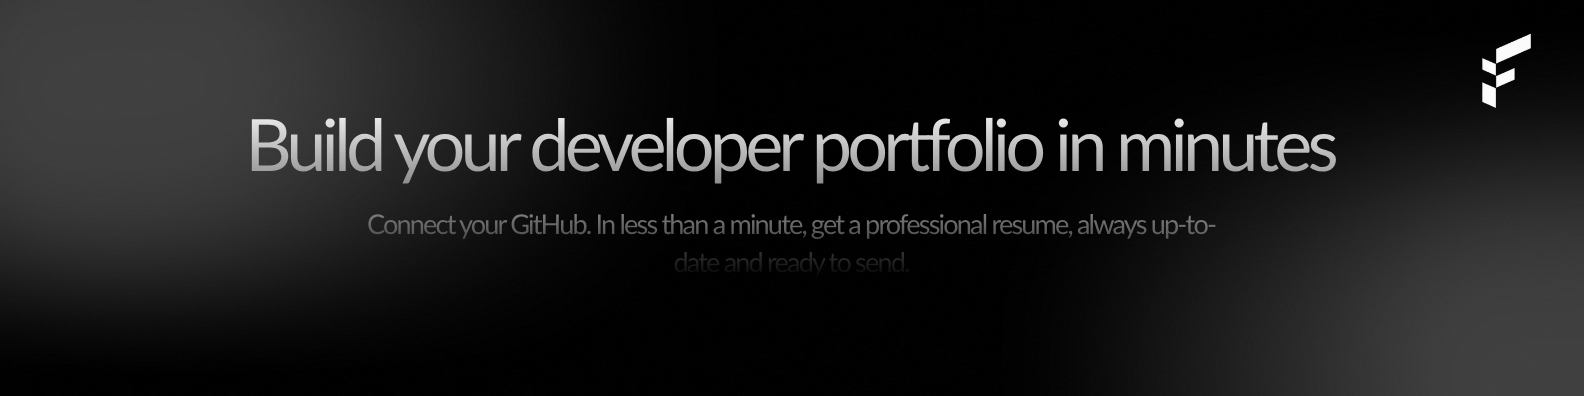
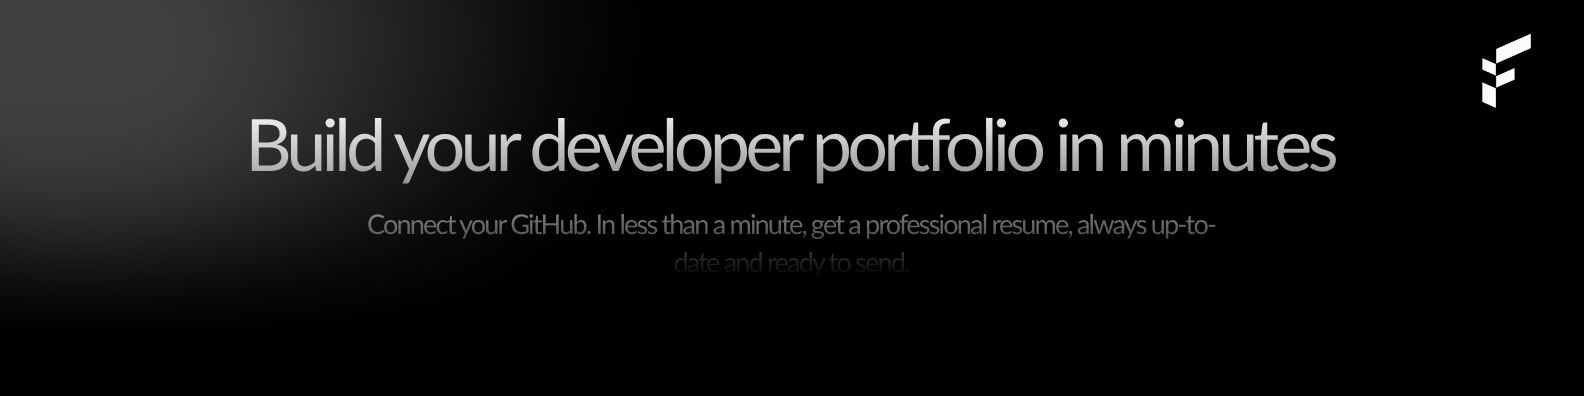
🎨 style: update README layout and links for consistency

Changed region(s): [[0.7424, 0.3333, 1.0, 1.0]]

diff --git a/README.md b/README.md
@@ -1,6 +1,4 @@
-<div align="center">
-  <h1>Folio</h1>
-</div>
+<h1>Folio</h1>
 
 ![Folio](/imgs/banner_folio.png)
 
@@ -16,8 +14,8 @@ Folio is built for developers who want:
 ---
 
 ## Getting Started
-<!--- **Web App**: https://folio.dev-->
-- **Repository**: https://github.com/foliohq/folio  
+- **Web App**: https://meufolio.dev
+- **Repository**: https://github.com/miguelrcha/folio  
 
 ---
 
@@ -25,7 +23,7 @@ Folio is built for developers who want:
 - GitHub-powered developer profile
 - ATS-optimized resume generation
 - Real-time sync with repositories and activity
-<!--- Shareable public profile pages (`folio.dev/@username`)-->
+Shareable public profile pages (`meufolio.dev/@username`)
 
 ---
 